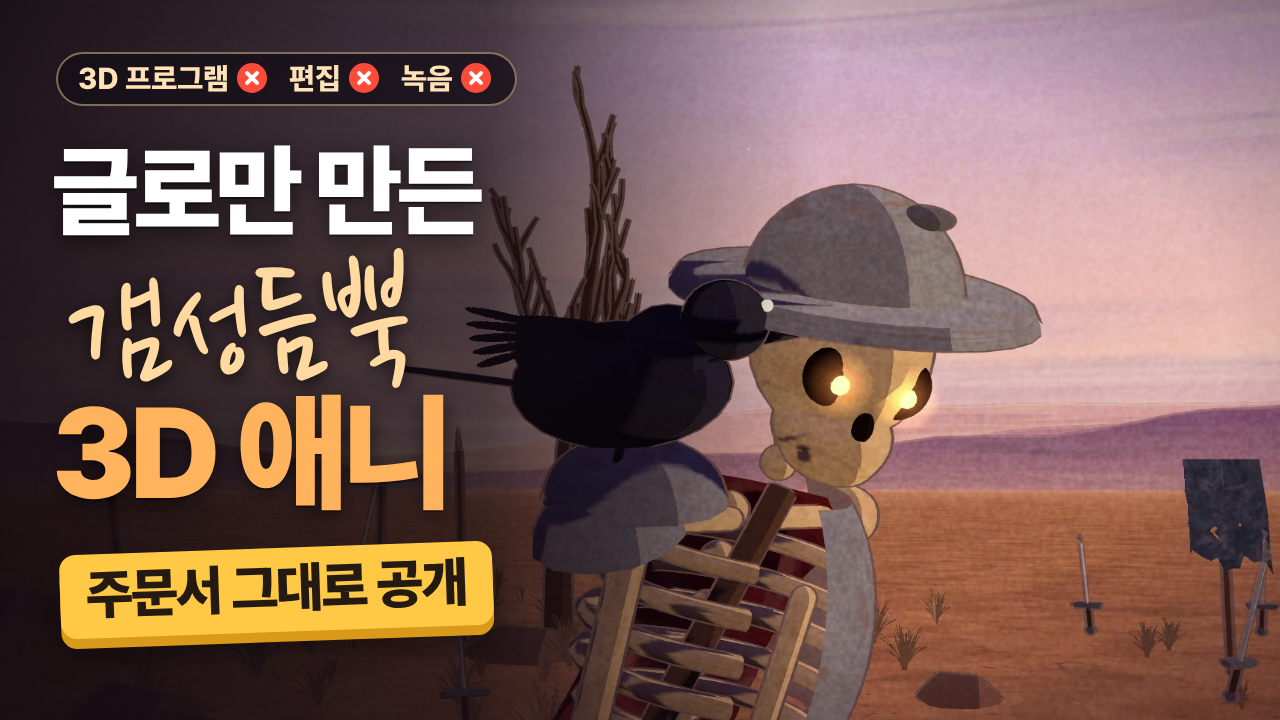
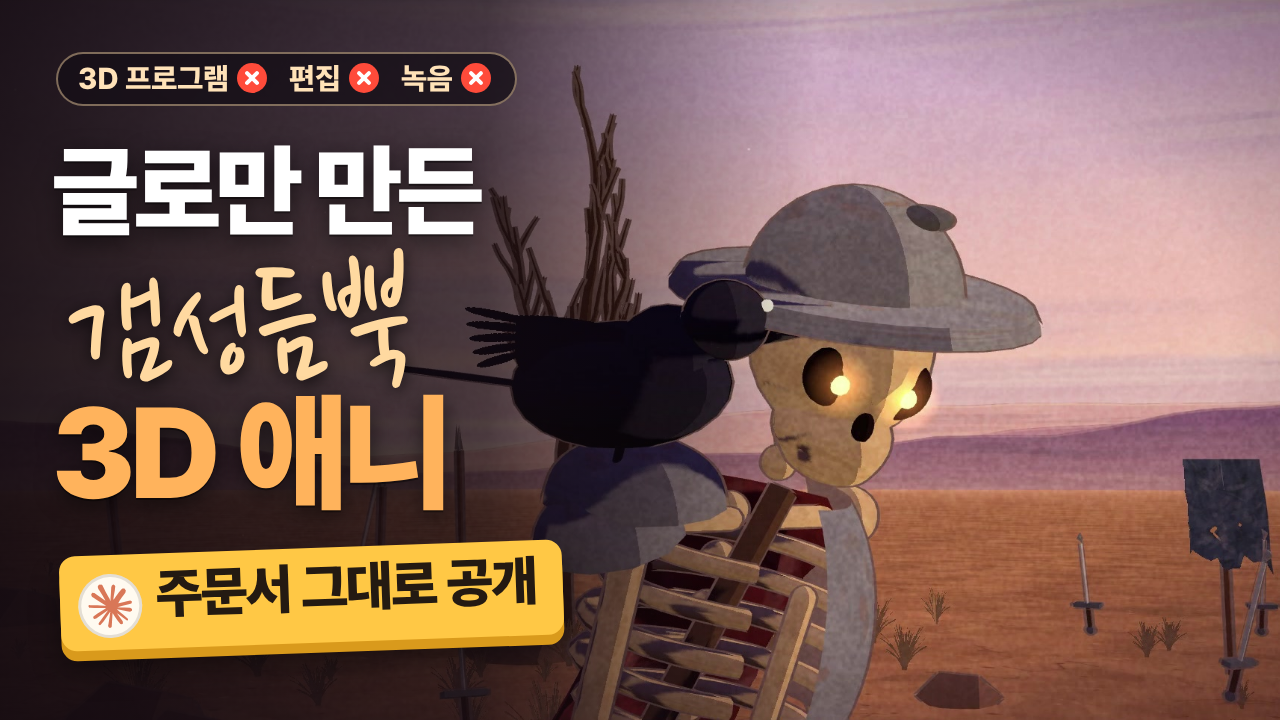
making-dusk-knight: 썸네일 A "주문서 그대로 공개" 앞에 클로드 심볼(위키미디어 공용, provenance 기록)
Claude-Session: https://claude.ai/code/session_01MriB71GyAkQdkXqqAvWEhd

Changed region(s): [[0.0312, 0.7333, 0.4375, 0.9167]]

diff --git a/making-dusk-knight/thumbnail/thumb.css b/making-dusk-knight/thumbnail/thumb.css
@@ -27,3 +27,5 @@ body { position: relative; font-family: 'Pretendard', sans-serif; background: #1
 .chip .ix::before, .chip .ix::after { content: ''; position: absolute; left: 13px; top: 6px; width: 4px; height: 18px; border-radius: 2px; background: #fff; }
 .chip .ix::before { transform: rotate(45deg); } .chip .ix::after { transform: rotate(-45deg); }
 .chip .sep { display: inline-block; width: 18px; }
+.tag .ci { display: inline-flex; width: 64px; height: 64px; margin: 0 14px 0 -8px; vertical-align: -14px; align-items: center; justify-content: center; border-radius: 50%; background: #fffaf0; box-shadow: inset 0 0 0 3px rgba(36, 26, 18, 0.12); }
+.tag .ci img { width: 44px; height: 44px; }

diff --git a/making-dusk-knight/thumbnail/thumbnail_a.html b/making-dusk-knight/thumbnail/thumbnail_a.html
@@ -8,5 +8,5 @@
 <div class="head" style="left:52px; top:140px; font-size:100px">글로만 만든</div>
 <div class="hand" style="left:66px; top:236px; font-size:150px; color:#ffd9a0; transform: rotate(-4deg); text-shadow: 0 4px 16px rgba(0,0,0,0.7)">갬성듬뿍</div>
 <div class="head" style="left:52px; top:388px; font-size:128px"><em>3D 애니</em></div>
-<span class="tag" style="left:60px; top:548px">주문서 그대로 공개</span>
+<span class="tag" style="left:60px; top:548px"><span class="ci"><img src="../assets/user/img/claude_symbol.svg"></span>주문서 그대로 공개</span>
 </body></html>
